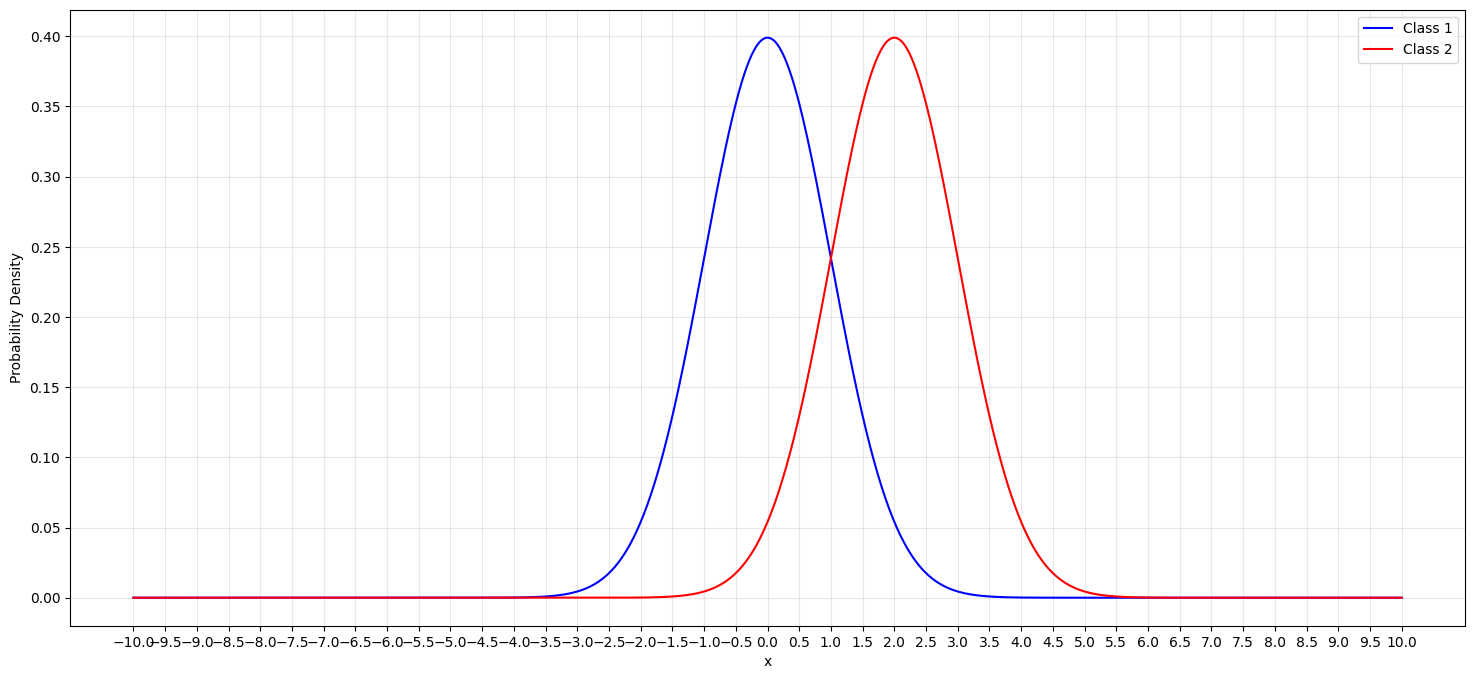
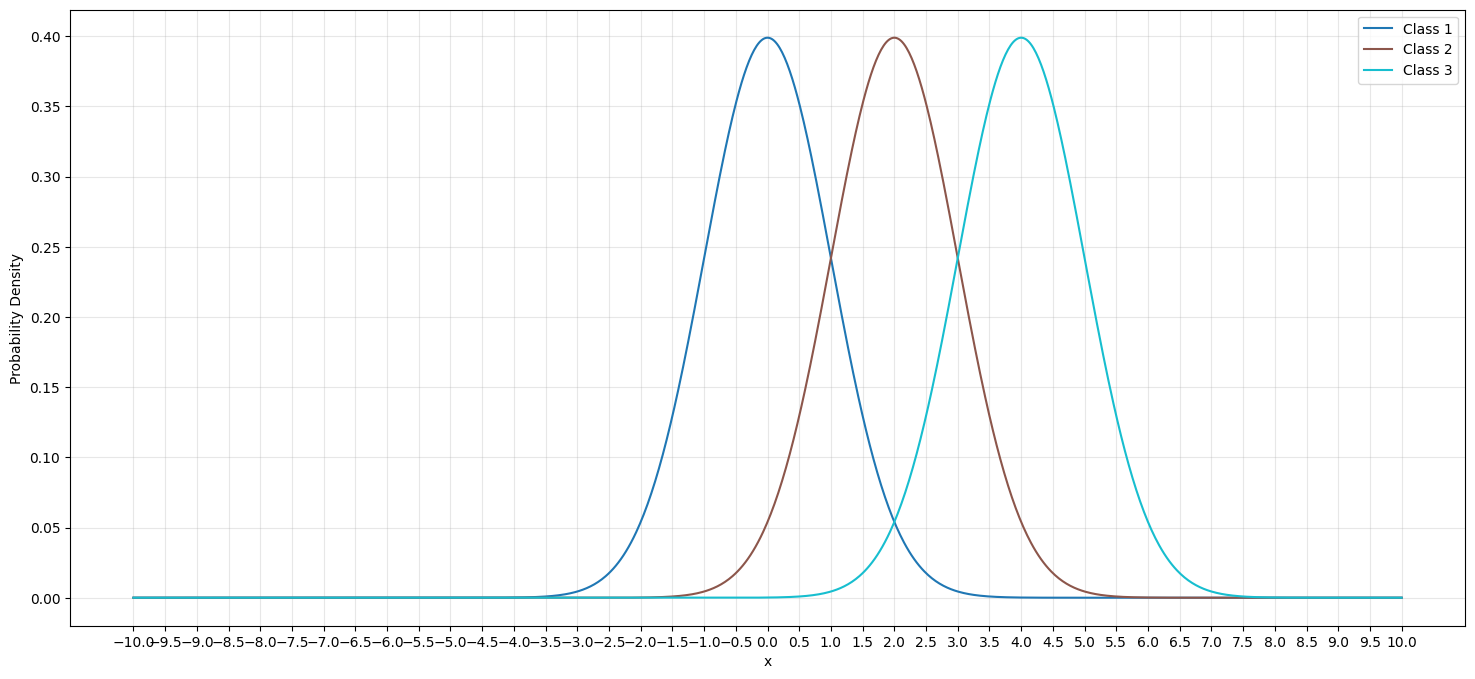
Bayesian Classifier can work with more than 2 classes now

diff --git a/Bayesian Decision Theory/BayesianClassifier.py b/Bayesian Decision Theory/BayesianClassifier.py
@@ -4,40 +4,38 @@ import matplotlib.pyplot as plt
 
 class BayesianClassifier:
     
-    # Dichotomizer that uses Bayesian Decision Theory
+    # Polychotomizer that uses Bayesian Decision Theory
     
-    def __init__(self, likelihood_class1, prior_class1, likelihood_class2, prior_class2):
+    def __init__(self, likelihoods, priors):
         
-        if not (0 <= prior_class1 <= 1 and 0 <= prior_class2 <= 1):
+        if not (0 <= prior <= 1 for prior in priors):
             raise ValueError("Prior must be between 0 and 1")
-        if not (prior_class1 + prior_class2 == 1):
+        if not (sum(priors) == 1):
             raise ValueError("Priors must sum to 1")
-        
-        self.likelihood_class1 = likelihood_class1
-        self.prior_class1 = prior_class1
-        self.likelihood_class2 = likelihood_class2
-        self.prior_class2 = prior_class2
+        if (len(priors) != len(likelihoods)):
+            raise ValueError("Number of likelihood functions and priors must be the same")
+    
+        self.likelihoods = likelihoods
+        self.priors = priors
+        self.num_classes = len(priors)
     
     # Overall Probability of x
     def evidence(self, x):
-        return (self.likelihood_class1(x) * self.prior_class1) + (self.likelihood_class2(x) * self.prior_class2)
+        return sum(likelihood(x) * prior for likelihood,prior in zip(self.likelihoods, self.priors))
     
     
     # Bayes Formula
     def posterior(self, x, c):
+        if not 1 <= c <= self.num_classes:
+            raise ValueError(f"Class must be between 1 and {self.num_classes}")
         if self.evidence(x) == 0:
             return 0.0
         
-        if (c == 1):
-            return (self.likelihood_class1(x) * self.prior_class1)/self.evidence(x)
-        elif (c ==2):
-            return (self.likelihood_class2(x) * self.prior_class2)/self.evidence(x)
-        else:
-            raise ValueError("Class c must be 1 or 2")
+        return (self.likelihoods[c - 1](x) * self.priors[c - 1])/self.evidence(x)
 
     # Function returns probability of error after observing x
     def p_error_x(self, x):
-        return min(self.posterior(x, 1), self.posterior(x, 2))
+        return 1 - max(self.posterior(x, c) for c in range(1, self.num_classes + 1))
     
     # Function that calculates the average error
     def p_error(self):
@@ -50,8 +48,11 @@ class BayesianClassifier:
     # Function to classify an observation based on Bayes Decision Rule (Eq (8) from Duda et el)
     #Tie breaker - choose class 1
     def classify(self, x):
-        predicted_class = 1 if self.likelihood_class1(x) * self.prior_class1 >= self.likelihood_class2(x) * self.prior_class2 else 2
-        confidence = abs(self.posterior(x, 1) - self.posterior(x, 2))
+        
+        posteriors = [self.posterior(x, c) for c in range(1, self.num_classes + 1)]
+        predicted_class = np.argmax(posteriors) + 1
+        sorted_posteriors = sorted(posteriors, reverse=True)
+        confidence = sorted_posteriors[0] - sorted_posteriors[1] if len(posteriors) > 1 else 1.0
         error = self.p_error_x(x)
         
         return predicted_class, confidence, error
@@ -65,33 +66,37 @@ class BayesianClassifier:
         
         return accuracy
     
-    def plot_likelihoods(self, range):
+    def plot_likelihoods(self, range_):
         
-        x = np.linspace(range[0], range[1], 1000)
-        likelihood1_values = [self.likelihood_class1(xi) for xi in x]
-        likelihood2_values = [self.likelihood_class2(xi) for xi in x]
-        
+        x = np.linspace(range_[0], range_[1], 1000)
+
         plt.figure(figsize=(18,8))
-        plt.plot(x, likelihood1_values, 'b-', label="Class 1")
-        plt.plot(x, likelihood2_values, 'r-', label="Class 2")
+        
+        colors = plt.cm.tab10(np.linspace(0, 1, self.num_classes))
+        for i, (likelihood, color) in enumerate(zip(self.likelihoods, colors)):
+            likelihood_values = [likelihood(xi) for xi in x]
+            plt.plot(x, likelihood_values, color=color, label=f"Class {i+1}")
+            
         plt.xlabel('x')
-        plt.xticks(np.arange(range[0], range[1] + 0.5, 0.5))
+        plt.xticks(np.arange(range_[0], range_[1] + 0.5, 0.5))
         plt.ylabel('Probability Density')
         plt.legend()
         plt.grid(True, alpha=0.3)
         plt.savefig('likelihoods.png', bbox_inches='tight')
         plt.close()
         
-    def plot_posteriors(self, range):
-        x = np.linspace(range[0], range[1], 1000)
-        posterior1_values = [self.posterior(xi, 1) for xi in x]
-        posterior2_values = [self.posterior(xi, 2) for xi in x]
+    def plot_posteriors(self, range_):
+        x = np.linspace(range_[0], range_[1], 1000)
         
         plt.figure(figsize=(18,8))
-        plt.plot(x, posterior1_values, 'b-', label="Class 1")
-        plt.plot(x, posterior2_values, 'r-', label="Class 2")
+
+        colors = plt.cm.tab10(np.linspace(0, 1, self.num_classes))
+        for i, color in enumerate(colors):
+            posterior_values = [self.posterior(xi, i+1) for xi in x]
+            plt.plot(x, posterior_values, color=color, label=f"Class {i+1}")
+        
         plt.xlabel('x')
-        plt.xticks(np.arange(range[0], range[1] + 0.5, 0.5))
+        plt.xticks(np.arange(range_[0], range_[1] + 0.5, 0.5))
         plt.ylabel('Posteriors')
         plt.legend()
         plt.grid(True, alpha=0.3)

diff --git a/Bayesian Decision Theory/test.py b/Bayesian Decision Theory/test.py
@@ -9,32 +9,29 @@ import numpy as np
 def create_likelihood(mean, std):
     return lambda x: norm.pdf(x, mean, std)
 
-def generate_test_data(n_samples, mean1, std1, mean2, std2):
+def generate_test_data(n_samples, means, stds):
     
-    class1_samples = np.random.normal(mean1, std1, n_samples)
+    samples = []
+    for mean, std in zip(means, stds):
+        class_samples = np.random.normal(mean, std, n_samples)
+        samples.append(class_samples)
     
-    class2_samples = np.random.normal(mean2, std2, n_samples)
-    
-    X = np.concatenate([class1_samples, class2_samples])
-    y = np.concatenate([np.ones(n_samples), np.ones(n_samples)*2])
+    X = np.concatenate(samples)
+    y = np.concatenate([np.ones(n_samples) * (i + 1) for i in range(len(means))])
     
     return X, y
 
-
 def main():
     
-    mean1, std1 = 0, 1
-    mean2, std2 = 2, 1
+    means = [0, 2, 4]
+    stds = [1, 1, 1]
     
-    likelihood1 = create_likelihood(mean1, std1)
-    likelihood2 = create_likelihood(mean2, std2)
+    likelihoods = [create_likelihood(mean, std) for mean, std in zip(means, stds)]
+    priors = [0.3, 0.3, 0.4]
     
-    classifier = BayesianClassifier(likelihood_class1=likelihood1,
-                                    prior_class1=0.5,
-                                    likelihood_class2=likelihood2,
-                                    prior_class2=0.5)
+    classifier = BayesianClassifier(likelihoods, priors)
     
-    X_test, y_test = generate_test_data(1000, mean1, std1, mean2, std2)
+    X_test, y_test = generate_test_data(1000, means, stds)
     
     # Evaluate Classifier:
     accuracy = classifier.evaluate_classifier(X_test, y_test)
@@ -44,14 +41,17 @@ def main():
     error_rate = classifier.p_error()
     print(f"Theoretical error rate: {error_rate:.4f}")
     
-    # Classify 1 point:
-    point = 0.5
-    class_label, confidence, error = classifier.classify(point)
-    print(f"Point {point} classified into class {class_label}, with confidence: {confidence:.4f} and probability of error: {error:.4f}")
+    test_points = [1, 2, 3]
+    for point in test_points:
+        class_label, confidence, error = classifier.classify(point)
+        print(f"\nPoint {point:.1f}:")
+        print(f"  Classified as class {class_label}")
+        print(f"  Confidence: {confidence:.4f}")
+        print(f"  Probability of error: {error:.4f}")
     
-    #Plot likelihoods:
-    classifier.plot_likelihoods(range=(-10, 10))
-    classifier.plot_posteriors(range=(-10, 10))
+    #Plot likelihoods & posteriors:
+    classifier.plot_likelihoods(range_=(-10, 10))
+    classifier.plot_posteriors(range_=(-10, 10))
     
 
 if __name__ == "__main__":
